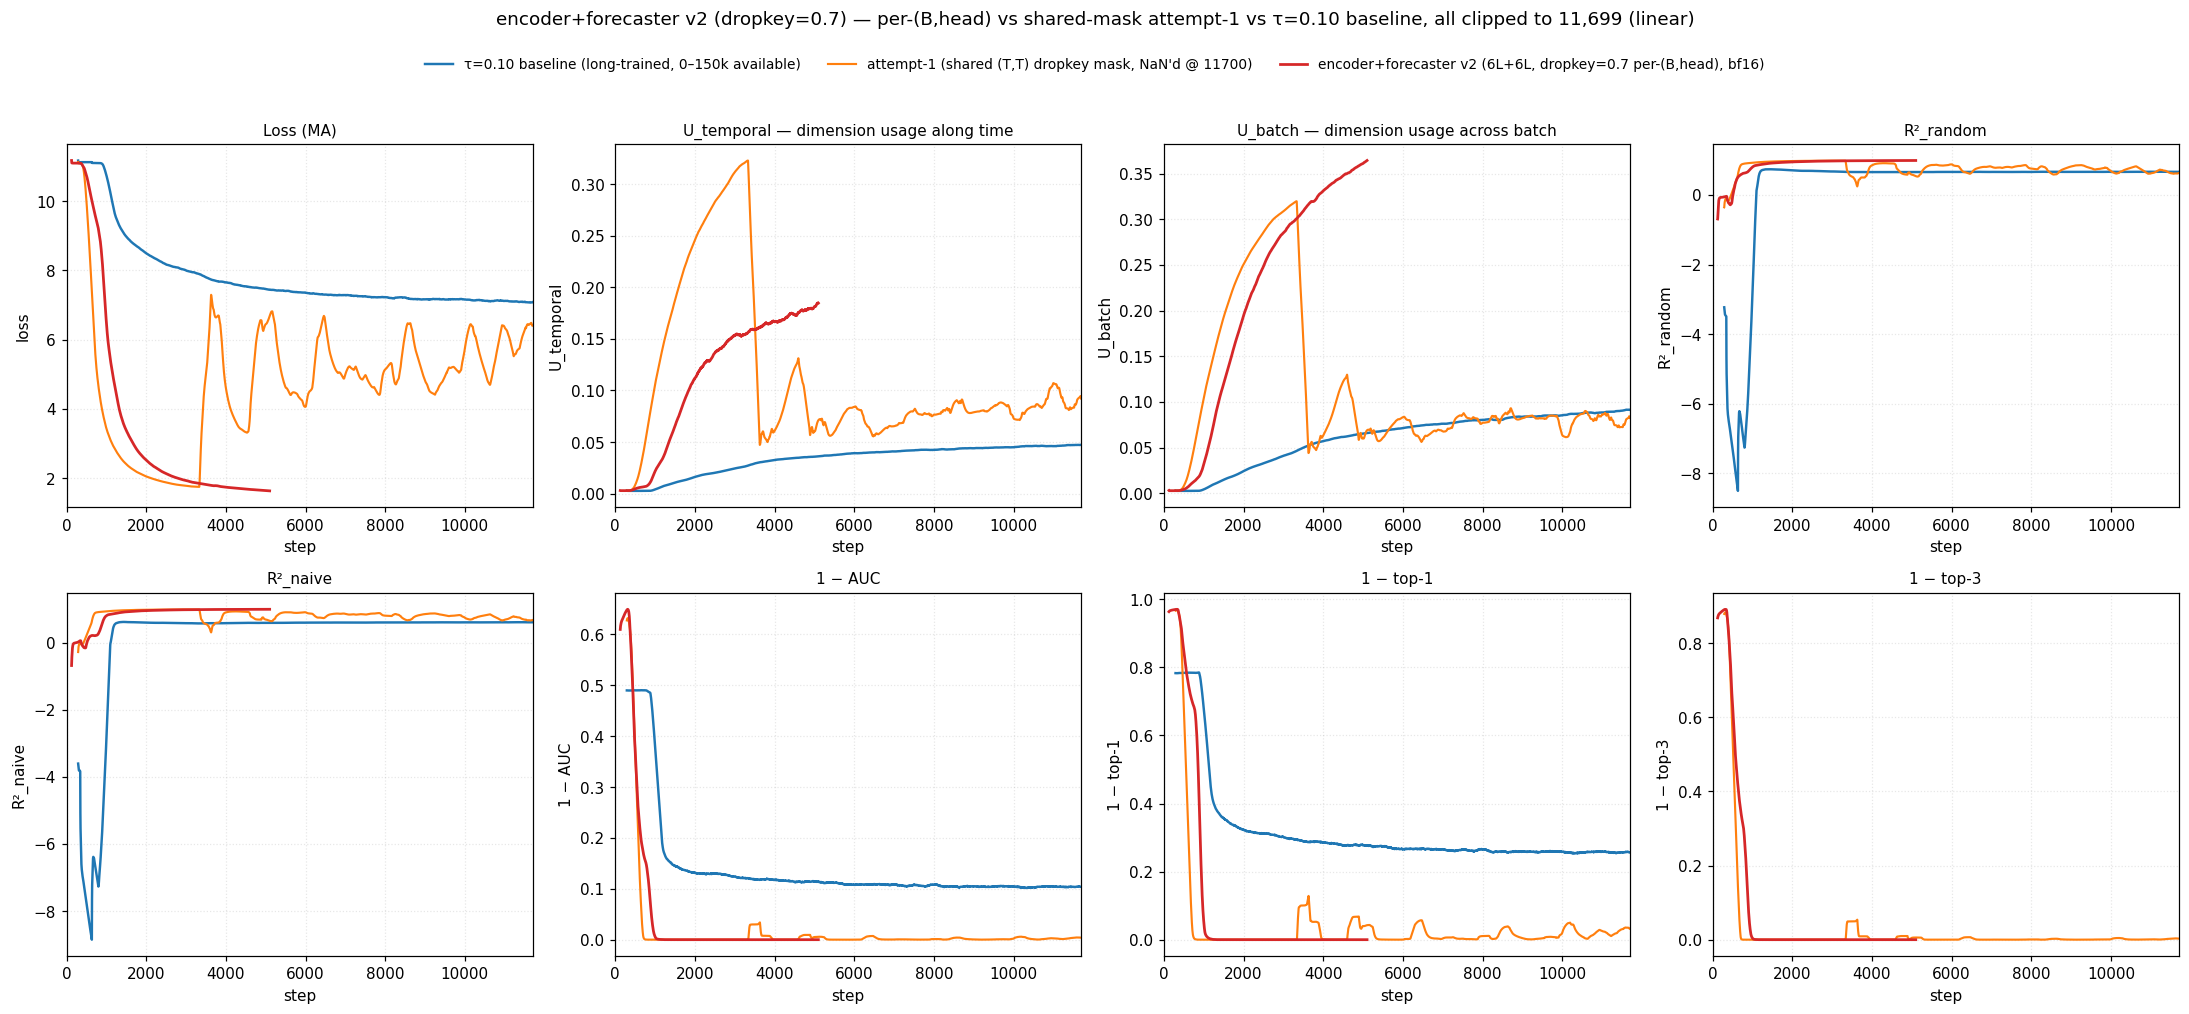
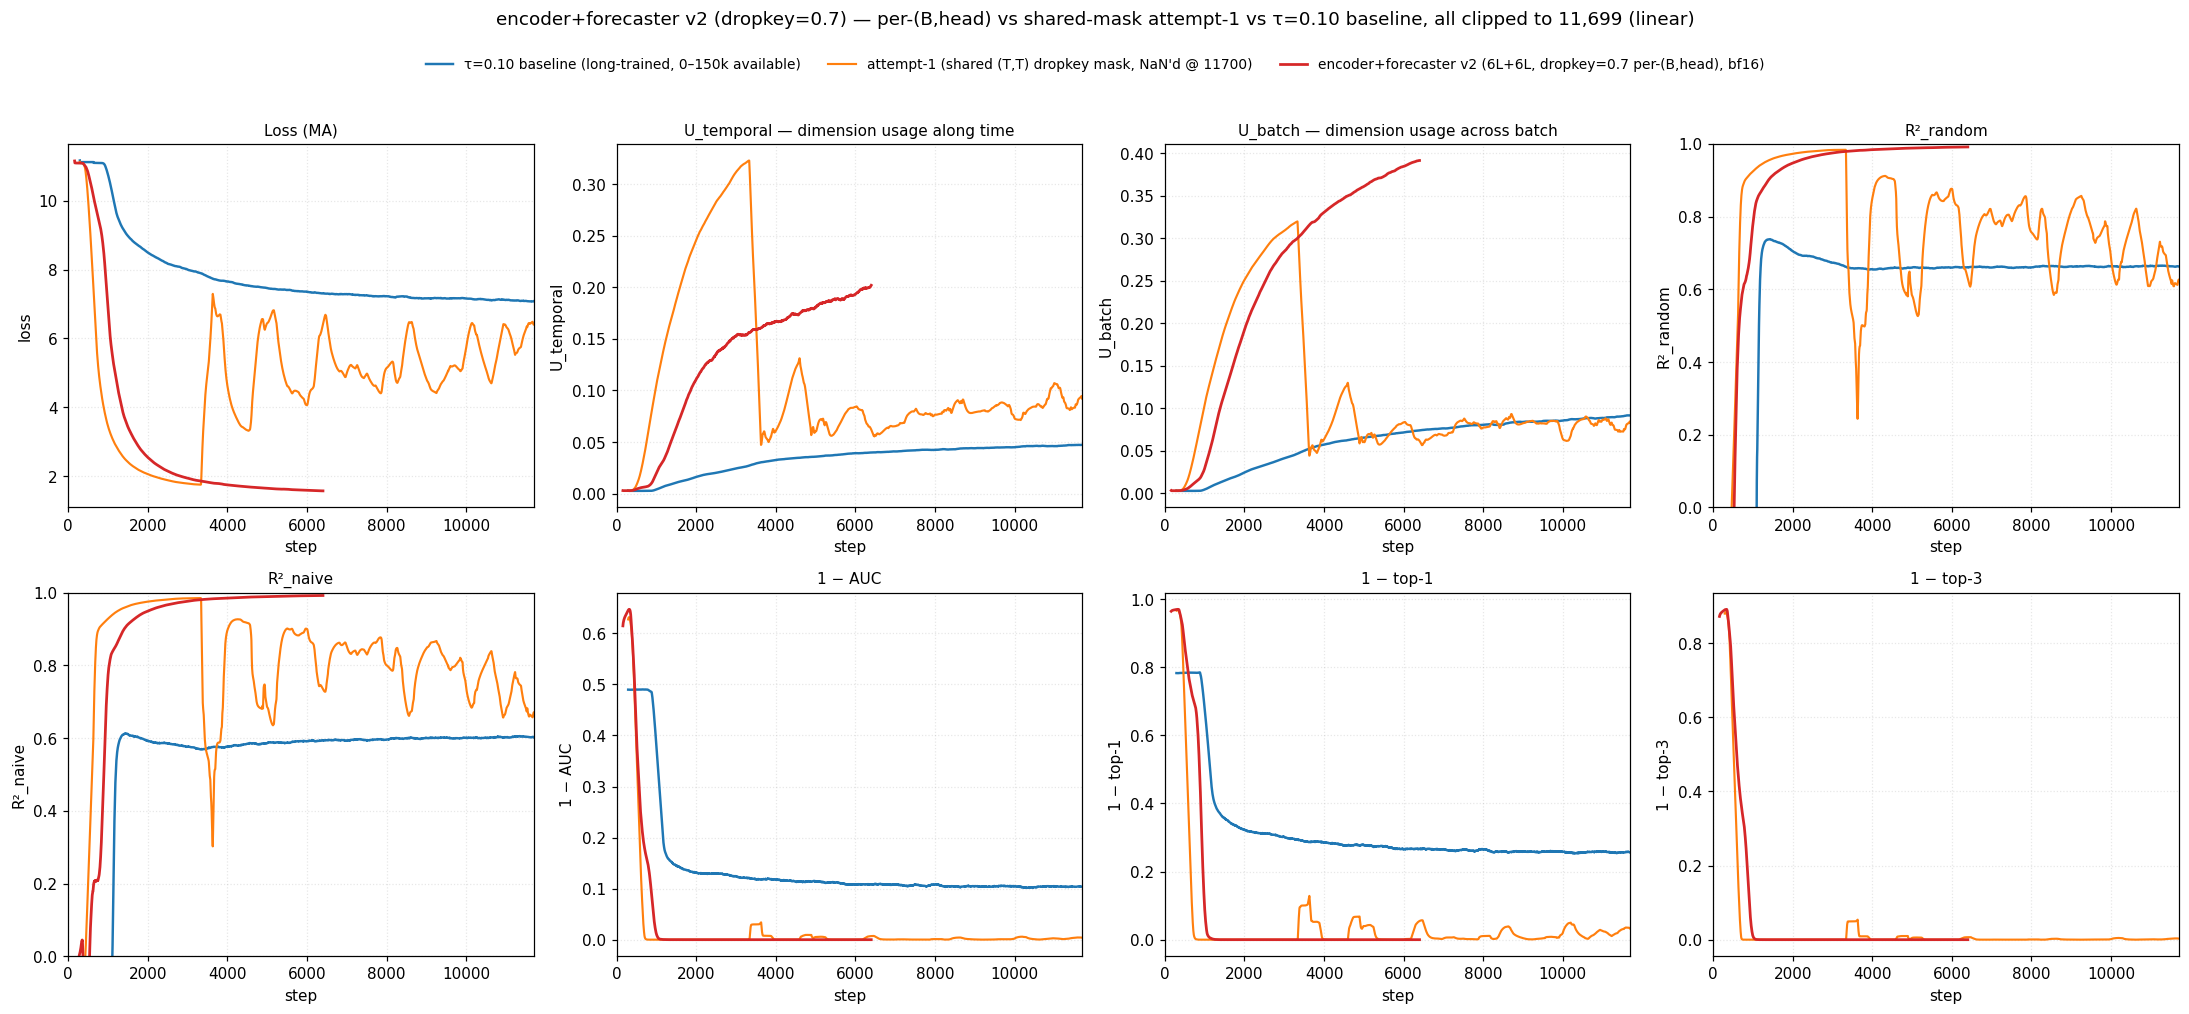
plot(enc-fcst-v2): R² panels — linear shows R² ∈ [0,1], log shows 1−R² (log-y)
Linear PNG: R²_random / R²_naive panels keep the R² label and clip y to
[0, 1] — early-warmup negatives drop off-panel; the converged regime
fills the y-axis.

Log–log PNG: R² panels switch to 1−R² with log-y, mirroring how AUC /
top-1 / top-3 are rendered. Direct log(R²) would compress the
interesting region near 1; 1−R² flips it so a "good" arm plots low and
the dynamic range is wide.

At step ~6400 the new arm is at R² ≈ 0.992 / 0.992 (loss 1.57) vs
baseline 0.661 / 0.605 (loss 6.92) and attempt-1 0.623 / 0.662
(loss 6.48, NaN'd at 11700). Forecast quality is decisively above the
two reference arms in the converged regime.

diff --git a/experiments/2026-05-11_exp_encoder_forecaster/scripts/plot_progress.py b/experiments/2026-05-11_exp_encoder_forecaster/scripts/plot_progress.py
@@ -242,14 +242,25 @@ def render_figure(traj, *, logx, logy_metrics, out_path, scale_tag, xmax,
                ylabel="U_batch",
                panel_title="U_batch — dimension usage across batch",
                transform=None, logy=False, logx=logx, xlim=xlim)
+    # R² panels: in the log PNG, plot 1−R² with log-y (mirroring 1−AUC /
+    # 1−top-1 / 1−top-3); in the linear PNG, plot R² directly with y
+    # clipped to [0, 1] so early-warmup negatives are off-panel.
+    r2r_log = "r2_random" in logy_metrics
+    r2n_log = "r2_naive" in logy_metrics
     plot_panel(ax_r2r, traj, key="r2_random",
-               ylabel="R²_random",
-               panel_title="R²_random",
-               transform=None, logy=False, logx=logx, xlim=xlim)
+               ylabel="1 − R²_random" if r2r_log else "R²_random",
+               panel_title="1 − R²_random" if r2r_log else "R²_random",
+               transform=(lambda y: 1.0 - y) if r2r_log else None,
+               logy=r2r_log, logx=logx, xlim=xlim)
+    if not r2r_log:
+        ax_r2r.set_ylim(0, 1)
     plot_panel(ax_r2n, traj, key="r2_naive",
-               ylabel="R²_naive",
-               panel_title="R²_naive",
-               transform=None, logy=False, logx=logx, xlim=xlim)
+               ylabel="1 − R²_naive" if r2n_log else "R²_naive",
+               panel_title="1 − R²_naive" if r2n_log else "R²_naive",
+               transform=(lambda y: 1.0 - y) if r2n_log else None,
+               logy=r2n_log, logx=logx, xlim=xlim)
+    if not r2n_log:
+        ax_r2n.set_ylim(0, 1)
     plot_panel(ax_auc, traj, key="auc",
                ylabel="1 − AUC",
                panel_title="1 − AUC",
@@ -341,7 +352,8 @@ def main() -> None:
           f"xmax = min = {xmax}")
 
     render_figure(traj, logx=True,
-                  logy_metrics={"loss", "auc", "top1", "top3"},
+                  logy_metrics={"loss", "auc", "top1", "top3",
+                                "r2_random", "r2_naive"},
                   out_path=OUT_LOG, scale_tag="log–log",
                   xmax=xmax, xmin_log=first_step)
 
